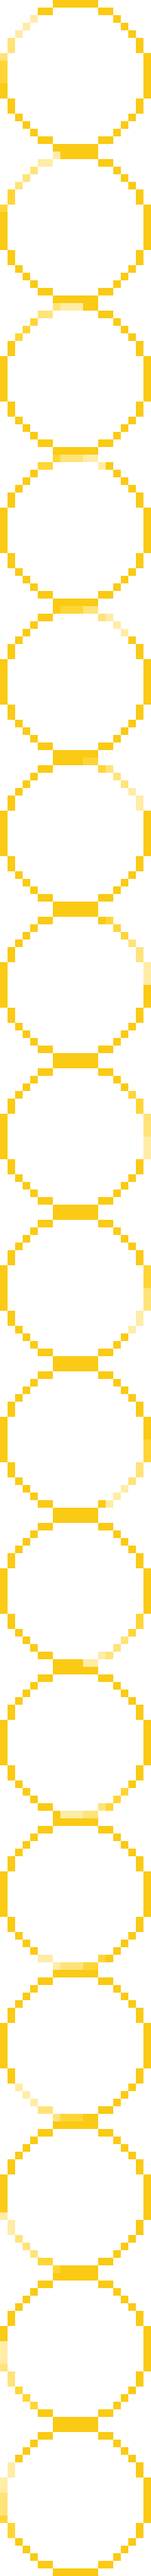
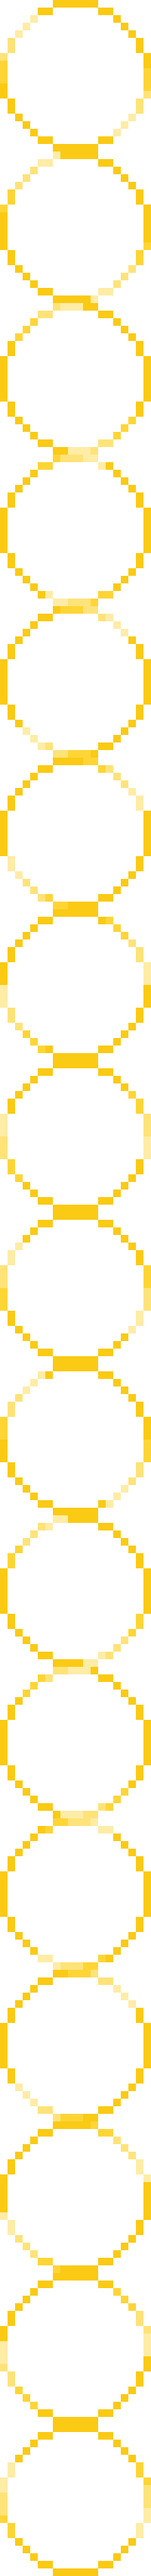
yet more art; fixed issue where piece sometimes flashes before being placed

diff --git a/client/src/main/resources/css/menu.css b/client/src/main/resources/css/menu.css
@@ -65,17 +65,17 @@
 }
 
 .list-view .list-cell {
-    -fx-background: transparent;
-    -fx-background-color: transparent;
-    -fx-border-color: transparent;
-    -fx-text-fill: black;
+  -fx-background: transparent;
+  -fx-background-color: transparent;
+  -fx-border-color: transparent;
+  -fx-text-fill: black;
 }
 .list-view .scroll-bar:vertical,
 .list-view .scroll-bar:horizontal {
-    -fx-opacity: 0;
-    -fx-padding: 0;
-    -fx-pref-width: 0;
-    -fx-pref-height: 0;
+  -fx-opacity: 0;
+  -fx-padding: 0;
+  -fx-pref-width: 0;
+  -fx-pref-height: 0;
 }
 
 

diff --git a/client/src/main/java/controller/GameController.java b/client/src/main/java/controller/GameController.java
@@ -331,8 +331,7 @@ public class GameController extends Controller {
     // construct a path
     Path path = new Path();
     path.getElements().add(new MoveTo(chipPos.getX(), chipPos.getY()));
-    path.getElements().add(new LineTo(topX + CoordUtils.pieceRadius,
-        topY));
+    path.getElements().add(new LineTo(topX + CoordUtils.pieceRadius, topY));
 
     // build the animation
     PathTransition pathTransition = new PathTransition();
@@ -343,17 +342,18 @@ public class GameController extends Controller {
   }
 
   private void animateDrop(Point from, BoardPosition rowCol, PlayerRole role) {
+    from.setY(from.getY() - (2 * CoordUtils.pieceRadius));
     double fromX = from.getX();
-    double fromY = from.getY() - CoordUtils.pieceRadius;
+    double fromY = from.getY();
 
-    Point topSlot = CoordUtils.fromRowCol(GameLogic.numRows() - 1, rowCol.getColumn());
-    Piece pieceToDrop = new Piece(role, topSlot.copy());
+    Piece pieceToDrop = new Piece(role, from);
     Point finalPosition = CoordUtils.fromRowCol(rowCol.getRow(), rowCol.getColumn());
     midgroundPane.getChildren().add(pieceToDrop);
 
-    Path pth = new Path();
-    pth.getElements().add(new MoveTo(fromX, fromY - pieceToDrop.getRadius()));
-    pth.getElements().add(new LineTo(finalPosition.getX(), finalPosition.getY()));
+    Path pth = new Path(
+        new MoveTo(fromX, fromY - pieceToDrop.getRadius()),
+        new LineTo(finalPosition.getX(), finalPosition.getY())
+     );
 
     // build the animation
     PathTransition pTrans = new PathTransition();
